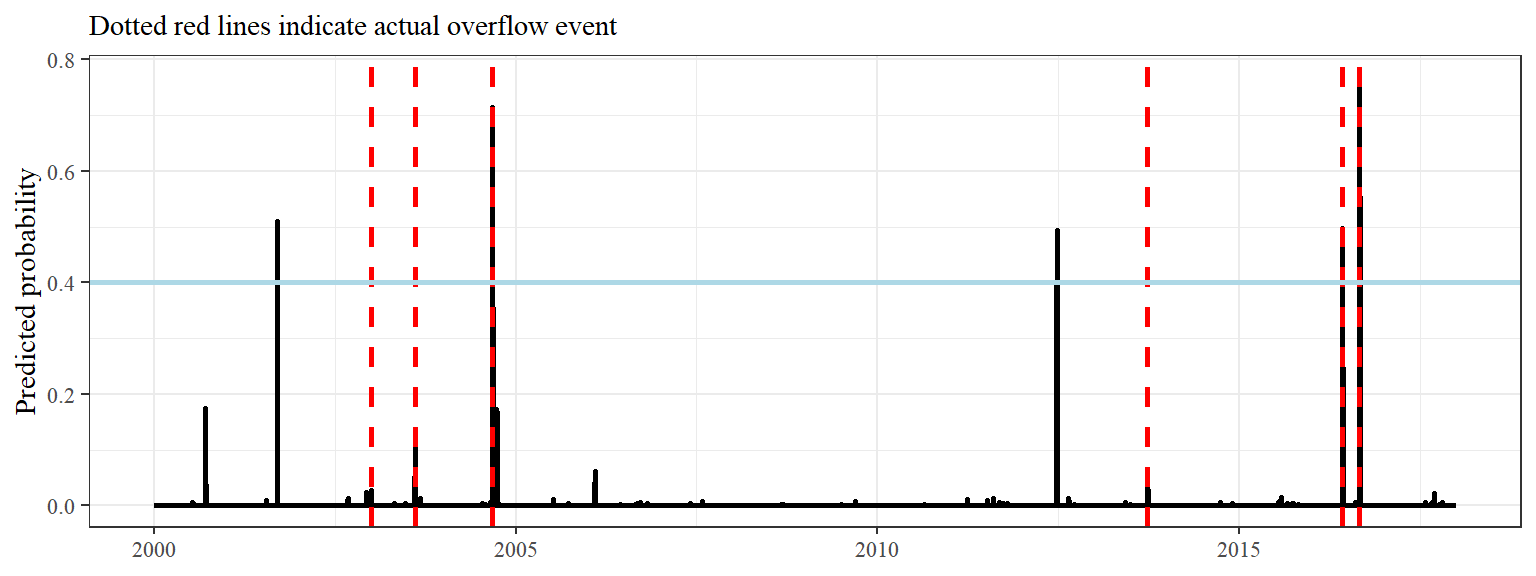
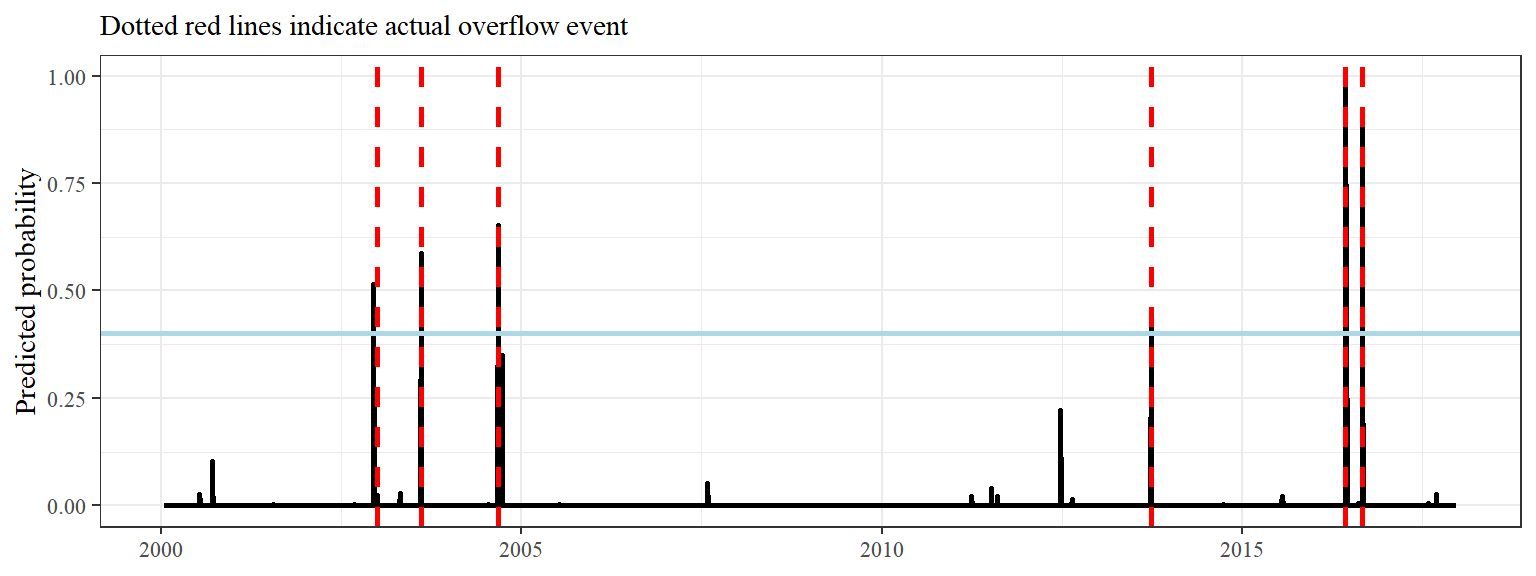
remove all obs in training data where water level less than mean

diff --git a/glmfit.html b/glmfit.html
@@ -387,7 +387,11 @@ dat &lt;- bind_cols(depvar0, indvar0) %&gt;%
     var4 = `indvar0...4.`, 
     date = stime0
   ) %&gt;% 
-  mutate(date = dmy(date))</code></pre>
+  mutate(date = dmy(date))
+
+# remove all records where water &lt; mean water level
+dat &lt;- dat %&gt;% 
+  filter(water &gt;= mean(water))</code></pre>
 </div>
 <div id="create-glm" class="section level2">
 <h2>Create GLM</h2>
@@ -413,38 +417,38 @@ summary(mod)</code></pre>
 ## 
 ## Deviance Residuals: 
 ##      Min        1Q    Median        3Q       Max  
-## -1.19457  -0.00731  -0.00273  -0.00116   2.69242  
+## -1.20236  -0.00020  -0.00005  -0.00001   2.74145  
 ## 
 ## Coefficients:
-##              Estimate Std. Error z value Pr(&gt;|z|)    
-## (Intercept) -22.64012    6.01264  -3.765 0.000166 ***
-## precp         3.14195    1.13930   2.758 0.005819 ** 
-## water        10.25472    5.15412   1.990 0.046633 *  
-## var2          0.14919    0.06919   2.156 0.031061 *  
-## var4         -1.65919    0.93858  -1.768 0.077099 .  
+##              Estimate Std. Error z value Pr(&gt;|z|)  
+## (Intercept) -48.31189   20.17226  -2.395   0.0166 *
+## precp        10.86320    4.76004   2.282   0.0225 *
+## water        26.22244   13.58764   1.930   0.0536 .
+## var2          0.21642    0.09362   2.312   0.0208 *
+## var4         -6.89659    3.26353  -2.113   0.0346 *
 ## ---
 ## Signif. codes:  0 &#39;***&#39; 0.001 &#39;**&#39; 0.01 &#39;*&#39; 0.05 &#39;.&#39; 0.1 &#39; &#39; 1
 ## 
 ## (Dispersion parameter for binomial family taken to be 1)
 ## 
-##     Null deviance: 95.913  on 6534  degrees of freedom
-## Residual deviance: 29.105  on 6530  degrees of freedom
-## AIC: 39.105
+##     Null deviance: 87.871  on 3344  degrees of freedom
+## Residual deviance: 17.252  on 3340  degrees of freedom
+## AIC: 27.252
 ## 
-## Number of Fisher Scoring iterations: 13</code></pre>
+## Number of Fisher Scoring iterations: 14</code></pre>
 <pre class="r"><code># contingency table of results
 table(dat[, c(&#39;overflow&#39;, &#39;prdbin&#39;)])</code></pre>
 <pre><code>##         prdbin
 ## overflow    0    1
-##        0 6526    3
-##        1    3    3</code></pre>
+##        0 3338    1
+##        1    1    5</code></pre>
 <pre class="r"><code>ggplot(dat, aes(x = date, y = prd)) + 
   geom_line(size = 1) + 
   geom_vline(data = dat[dat$overflow == 1, ], aes(xintercept = date), linetype = &#39;dashed&#39;, color = &#39;red&#39;, size = 1) + 
   geom_hline(yintercept = 0.4, color = &#39;lightblue&#39;, size = 1) + 
   theme_bw() + 
   labs(x = NULL, y = &#39;Predicted probability&#39;, subtitle = &quot;Dotted red lines indicate actual overflow event&quot;)</code></pre>
[2 lines of base64/hex data omitted]
 </div>
 </div>
 
